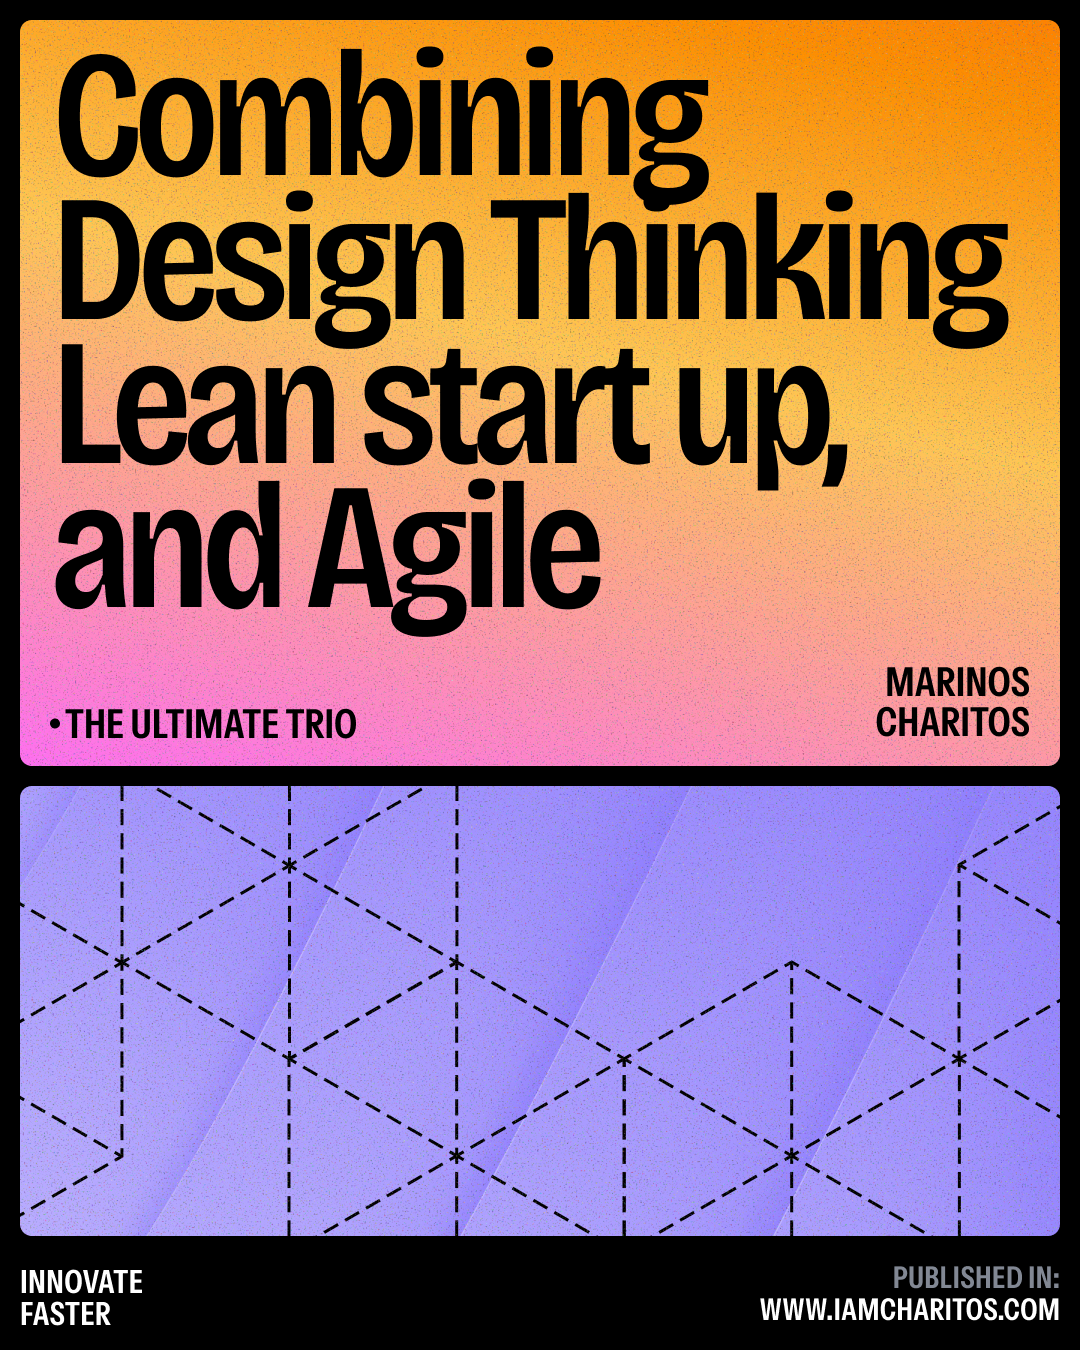
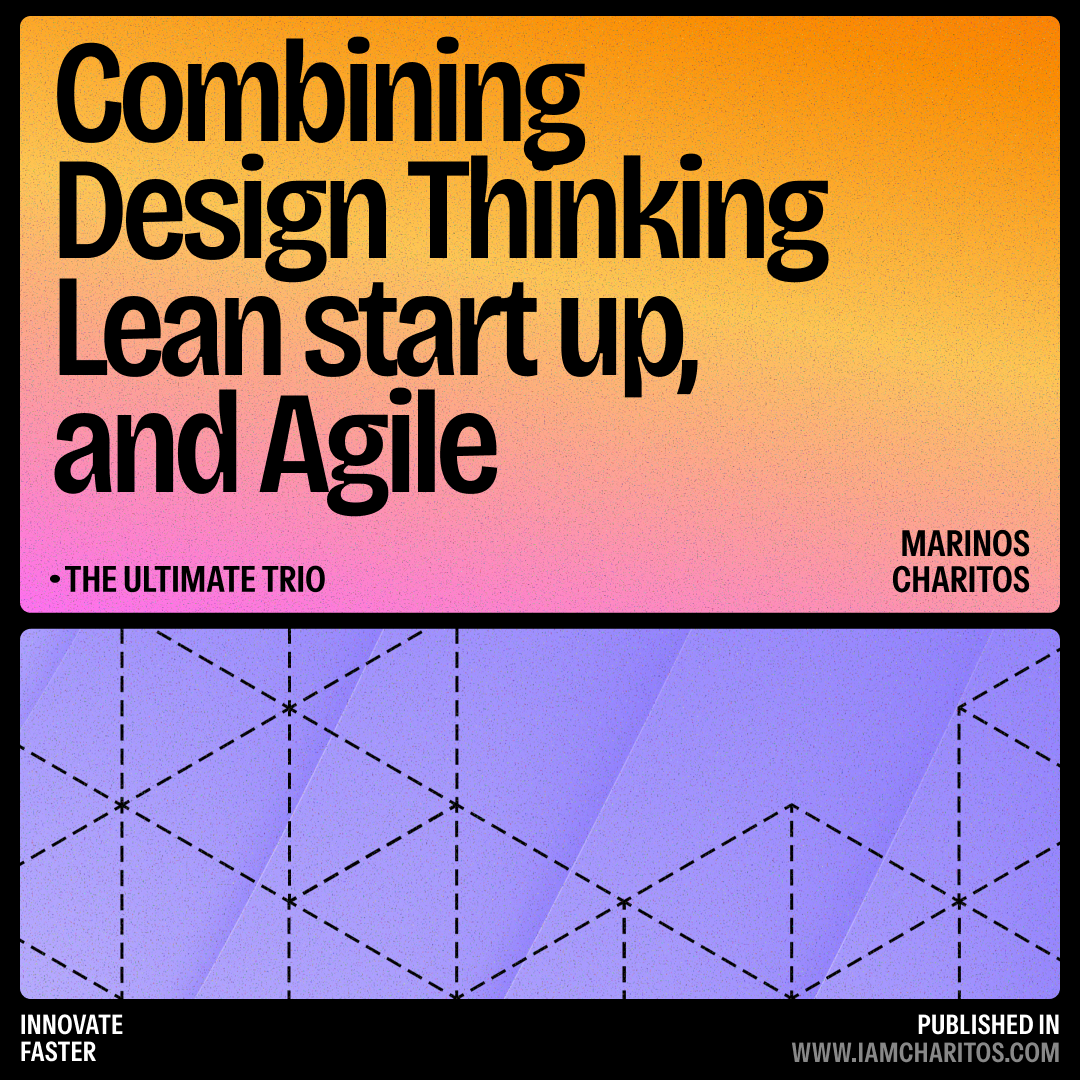
.

Changed region(s): [[0.0306, 0.0, 0.9778, 0.5806], [0.0, 0.5806, 0.9778, 1.0]]

diff --git a/index.html b/index.html
@@ -428,11 +428,11 @@
             </div>
 
             <!-- ΑΡΘΡΟ 3: METHODOLOGY -->
-            <div id="blog-methodology" class="details-container color-container blog-card" onclick="openModal('craft-modal-2')">
+            <div id="blog-methodology" class="details-container color-container blog-card" onclick="openModal('craft-modal-3')">
               <img src="./assets/methodology.png" alt="Methodology Article Cover" class="blog-cover-img" />
               <h2 class="experience-sub-title project-title" style="margin-top: 1rem;">Combining Design Thinking, Lean Startup, and Agile</h2>
               <div class="btn-container">
-                <button class="btn btn-color-2 project-btn">Read the Full Article</button>
+                <button class="btn btn-color-3 project-btn">Read the Full Article</button>
               </div>
             </div>
   
